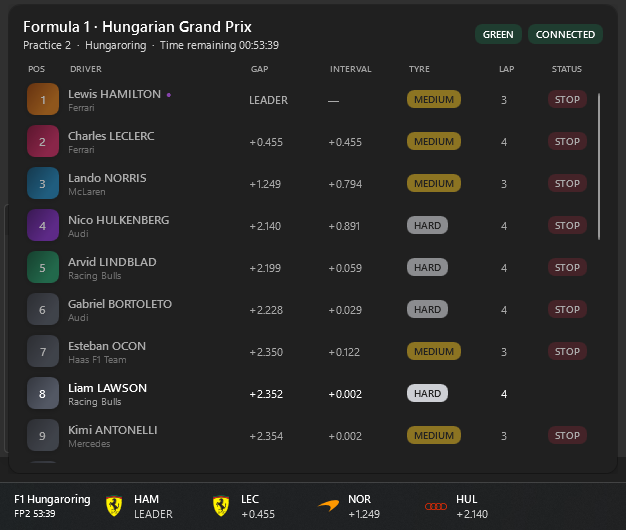
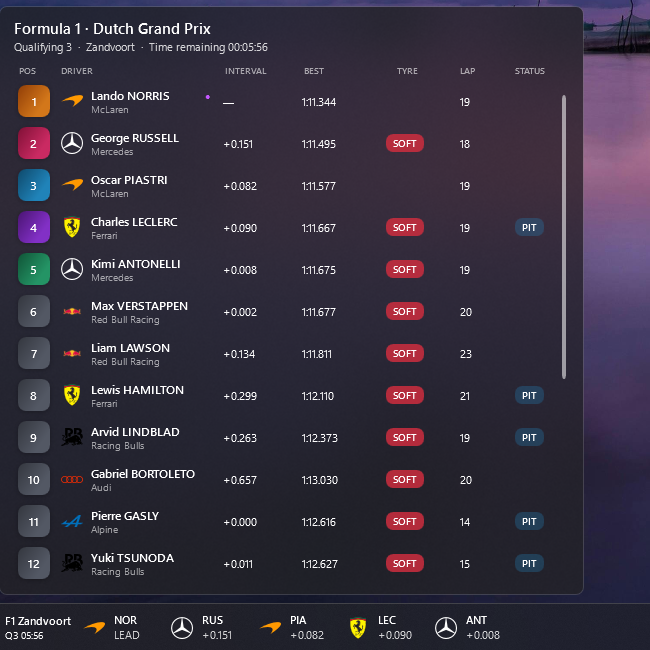
docs: rewrite README and add project guides
- Add CONTRIBUTING.md with build, PR, stream, logo, and roster steps
- Add PRIVACY.md covering local data, feeds, and sharing
- Add AGENTS.md with project workflow and route rules
- Condense README into overview, install, limitations, and links
- Replace the taskbar screenshot

diff --git a/README.md b/README.md
@@ -1,166 +1,94 @@
+<div align="center">
+
+<img src="RaceDock/Assets/AppIcon/racedock-256.png" alt="RaceDock" width="128" />
+
 # RaceDock
 
 **Live motorsport timing, right on your Windows taskbar.**
 
-RaceDock is a desktop app that shows live race information without taking over your screen.
-Follow the leaders from the taskbar, open the full classification when you need more detail, and receive clear flag and session alerts while you use other apps.
+[![CI](https://github.com/Foxtrot47/RaceDock/actions/workflows/ci.yml/badge.svg?branch=main)](https://github.com/Foxtrot47/RaceDock/actions/workflows/ci.yml)
+[![Latest release](https://img.shields.io/github/v/release/Foxtrot47/RaceDock?logo=github)](https://github.com/Foxtrot47/RaceDock/releases/latest)
+[![Downloads](https://img.shields.io/github/downloads/Foxtrot47/RaceDock/total?logo=github)](https://github.com/Foxtrot47/RaceDock/releases)
+[![License](https://img.shields.io/github/license/Foxtrot47/RaceDock)](LICENSE)
+[![Issues](https://img.shields.io/github/issues/Foxtrot47/RaceDock?logo=github)](https://github.com/Foxtrot47/RaceDock/issues)
 
-[Download the latest release](https://github.com/Foxtrot47/RaceDock/releases/latest) · [View all releases](https://github.com/Foxtrot47/RaceDock/releases)
+[Download](https://github.com/Foxtrot47/RaceDock/releases/latest) ·
+[Contribute](CONTRIBUTING.md) ·
+[Changelog](CHANGELOG.md) ·
+[Privacy](PRIVACY.md)
+
+</div>
 
 ![RaceDock showing Formula 1 timing in the Windows taskbar with the full classification open](assets/screenshot.png)
 
-## What RaceDock does
+RaceDock puts live race timing in your Windows taskbar, so you can follow a session while you work.
+The leaders stay visible in a small strip on the taskbar. Click it and the full classification opens without pulling focus away from whatever you are using. When no session you follow is running, RaceDock shows nothing at all.
 
-- Shows up to five leading drivers directly in the Windows taskbar.
-- Opens a full-field classification without taking focus from your current app.
-- Displays event, session, lap, stage, gap, tyre, class, pit, status, and flag information when the live feed provides it.
-- Supports Formula 1, Formula 2, Formula 3, Formula E, DTM, the NTT INDYCAR SERIES, MotoGP, Moto2, Moto3, GT World Challenge Europe, the IMSA WeatherTech SportsCar Championship, and the World Rally Championship.
-- Connects to several enabled championships at once and rotates between active sessions.
-- Uses position cards or team and manufacturer logos.
-- Includes deterministic scenarios and archive replay, so contributors can check the interface without waiting for a live event.
+## Features
 
-RaceDock stays hidden until an enabled stream provides live timing data.
+- Up to five leading drivers in the taskbar, with the full field one click away.
+- Lap, stage, gap, tyre, class, pit, status, and flag details when the series publishes them.
+- 12 championships: F1, F2, F3, Formula E, DTM, INDYCAR, MotoGP, Moto2, Moto3, GT World Challenge Europe, IMSA WeatherTech, and WRC.
+- Follow several series at once — RaceDock rotates between the ones currently live.
+- Position cards or team and manufacturer logos, in a light or dark look that follows Windows.
+- Replay recorded sessions, so you can try the app without waiting for a race.
 
-## Download and run
+## Install
 
-RaceDock targets Windows 10 version 1809 (build 17763) or newer, including Windows 11. Windows 10 support is best-effort until it is covered by CI; use a Windows edition and build still supported by Microsoft.
+RaceDock needs Windows 10 version 1809 or newer, including Windows 11, on a 64-bit PC.
 
 1. Open the [latest release](https://github.com/Foxtrot47/RaceDock/releases/latest).
-2. Download `RaceDock-vX.Y.Z-win-x64.zip` and, if you want to verify it, the matching `.sha256` file.
-3. Extract the ZIP to a folder you can keep.
+2. Download `RaceDock-vX.Y.Z-win-x64.zip`.
+3. Extract it to a folder you plan to keep.
 4. Run `RaceDock.exe`.
 
-## Using the app
 
-RaceDock runs from the Windows notification area. Open **Settings** from the tray menu, or double-click the tray icon, to:
+> A Microsoft Store listing is in certification. Until it is published, the GitHub release above is the official download.
 
-- enable or disable live championships;
-- choose how quickly active sessions rotate;
-- show between one and five drivers;
-- show or hide event, session, gap, position-colour, logo, and flag information;
-- choose whether RaceDock starts automatically when you sign in to Windows.
+## Using it
 
-Settings are saved in `%LocalAppData%\RaceDock\settings.json`. Windows startup is enabled by default and can be disabled from the **General** settings tab. Keep the extracted app in a stable folder because the startup entry points to that copy of `RaceDock.exe`.
+RaceDock sits in the notification area. Double-click its icon, or pick **Settings** from its menu.
 
-Application logs are stored in `%LocalAppData%\RaceDock\Logs`. The Formula 1 diagnostic recorder is optional, limited to 2 MiB, and excludes connection credentials.
+- **Home** — turn championships on or off.
+- **Championship**: choose what each series shows: how many drivers, gaps, logos, flags, and more.
+- **General**: rotation speed, widget position, animations, and starting with Windows.
+- **Testing**: replay a recorded session or run a demo without a live race.
+- **About**: the version you are running.
 
-### Replay recorded timing
+Settings and logs are stored in `%LocalAppData%\RaceDock`. Deleting that folder resets the app.
 
-Open **Settings → Testing → Choose archive…** to replay a Timing71 ZIP export or a HAR containing Timing71 manifest and state messages. Replay uses the normal taskbar widget and classification flyout. The Testing tab provides pause, resume, restart, single-step, and 0.25×–20× speed controls. Long recording gaps over 30 seconds are compressed to one second so sparse archives do not appear frozen.
+## Where the timing comes from
 
-Archive replay is temporary and does not change the selected live streams. Choose **Return to live** to reconnect them. HAR files from arbitrary provider protocols are not converted automatically; the HAR must contain Timing71-compatible manifest and state payloads.
+| Championship | Source |
+| --- | --- |
+| Formula 1 | Official Formula 1 live-timing stream |
+| Formula 2 & Formula 3 | Official FIA timing hubs |
+| Formula E | Official Al Kamel Formula E timing stream |
+| DTM | Public Griiip Insights timing feed |
+| NTT INDYCAR SERIES | Public INDYCAR race-control timing feed |
+| MotoGP, Moto2, Moto3 | Official MotoGP live-timing gateway |
+| GT World Challenge Europe | Public Swiss Timing SRO cache |
+| IMSA WeatherTech | Al Kamel live-timing stream |
+| World Rally Championship | Public WRC Promoter API |
 
-## Live timing sources
+RaceDock connects to these services directly from your PC. It is an independent project and is not affiliated with, endorsed by, or sponsored by any championship, promoter, or timing provider.
 
-- **Formula 1:** the official Formula 1 SignalR Core live-timing stream.
-- **Formula 2 and Formula 3:** the official FIA timing hubs for practice, qualifying, and races.
-- **Formula E:** the official Al Kamel Formula E timing stream for practice, qualifying, and races.
-- **DTM:** the public Griiip Insights timing feed for practice, qualifying, and races.
-- **NTT INDYCAR SERIES:** the public INDYCAR race-control timing feed for practice, qualifying, warmup, and races.
-- **MotoGP, Moto2, and Moto3:** separate opt-in streams from the official MotoGP live-timing gateway.
-- **GT World Challenge Europe:** the public Swiss Timing SRO cache for practice, qualifying, and races.
-- **IMSA WeatherTech SportsCar Championship:** the Al Kamel live-timing stream for practice, qualifying, and races.
-- **World Rally Championship:** the public WRC Promoter API for entries, stages, and live stage times.
+- The app is English-only for now; there are no translations yet.
+- It attaches to your main taskbar, not taskbars on secondary monitors.
+- Timing feeds are run by others: they can change, slow down, or drop out mid-session, and some series simply do not publish tyres, sectors, or pit data.
+- It covers live sessions only, no standings tables, schedules, results archives, or video.
+- The Mica background option is experimental and off by default.
 
-Live data remains subject to the availability and behaviour of each external service.
+## Help and bugs
 
-## Build from source
+Found a problem or want a series added? [Open an issue](https://github.com/Foxtrot47/RaceDock/issues).
 
-You need Windows 10 version 1809 or newer and the .NET 10 SDK.
-
-```powershell
-dotnet build RaceDock.slnx -c Release
-dotnet run --project RaceDock.Tests -c Release
-dotnet publish RaceDock/RaceDock.csproj -c Release -p:PublishProfile=FolderProfile
-pwsh ./scripts/Build-Msix.ps1 -Configuration Release
-```
-
-The publish profile creates a self-contained, compressed single-file build for unpackaged use. `Build-Msix.ps1` creates an unsigned MSIX with the reserved Microsoft Store identity and packaged startup task; the MSIX path intentionally disables single-file publishing because package files are read-only. Keep trimming disabled: trimming is not currently safe for the WPF and Windows Forms code paths used by the app.
+Helpful details: your RaceDock version, your Windows version, which series and session, and anything relevant from `%LocalAppData%\RaceDock\Logs`.
 
 ## Contributing
 
-Bug reports, documentation improvements, new timing streams, feed fixes, and logo additions are welcome.
-
-Before opening a pull request:
-
-1. Keep the change focused and explain which event, series, or feed state it covers.
-2. Do not commit API keys, authentication tokens, captured personal data, or other secrets.
-3. Add or update regression tests when timing behaviour changes.
-4. Run the release test suite:
-
-   ```powershell
-   dotnet run --project RaceDock.Tests -c Release
-   ```
-
-5. Build the application and use the **Testing** tab or a live session to check the visible result.
-
-### Add a new event stream
-
-Every live timing adapter implements `ILiveTimingSource`, defined in `RaceDock.Core/Domain.cs`. The interface publishes normalized `TimingSnapshot` values, connection changes, timing deltas, and feed failures so the rest of the app does not need to understand the provider's original data format.
-
-To add another championship or event stream:
-
-1. Create an adapter in `RaceDock.Core` that implements `ILiveTimingSource`.
-2. Convert the provider's data into `TimingSnapshot` and `CompetitorStanding` records. Report connection and parsing failures through the interface events rather than hiding them.
-3. If the stream represents a new championship, add it to the `Championship` enum in `Domain.cs` and add its short and full labels in `ChampionshipDisplay.cs`.
-4. Add an enable setting in `UserSettings.cs`, expose it as a checkbox in `RaceDock/SettingsWindow.cs`, and include it in the feed-restart checks.
-5. Register the adapter factory in `RaceDock/AppController.cs`. `CompositeLiveTimingSource` will start enabled adapters together and rotate between streams that are currently live.
-6. Add focused tests in `RaceDock.Tests/Program.cs`. Cover normal timing, incomplete or unexpected feed data, connection changes, session endings, and any series-specific rules your adapter introduces.
-7. Update the supported-stream list in this README.
-
-Use public or properly authorized data sources, follow the provider's terms, and avoid embedding credentials in the application.
-
-### Add or update a logo
-
-Logo files and their feed-name mappings live in `RaceDock/Assets/ManufacturerLogos`.
-
-1. Add a `.svg`, `.png`, or `.webp` asset to that folder. The project file includes those formats as application resources automatically.
-2. Add one entry to `manifest.json` with the asset filename and every team or manufacturer name that a feed may return:
-
-   ```json
-   {
-     "asset": "example.svg",
-     "color": "#ffffff",
-     "aliases": ["Example Racing", "Example Motorsport"]
-   }
-   ```
-
-3. Use `"preserveColors": true` when the original colours must remain unchanged. Otherwise, the renderer tints supported artwork using the entry's `color` value.
-4. Start the app, enable **Manufacturer logos**, and confirm the mark remains recognizable in both the taskbar strip and the full classification.
-
-Logos appear inside a 26 x 26 DIP square with a 2 DIP internal margin and uniform scaling. In the full classification, the logo appears beside the driver name while the position remains visible. Providers can supply a separate manufacturer name for logo resolution while preserving the team name shown to the user. For a clear result at this size:
-
-- prefer a compact emblem, shield, or monogram over a wide wordmark;
-- tightly crop transparent bitmap files, ideally on a 256 x 256 canvas;
-- use SVG files with a square view box and tightly bounded geometry; and
-- add alternate feed names as aliases instead of duplicating an asset.
-
-The built-in SVG reader supports fills, nested transforms, paths, polygons, and polylines.
-
-### Update Formula 2 and Formula 3 team rosters
-
-The FIA Formula 2 and Formula 3 feeds identify drivers but do not include their teams. Season-specific racing-number-to-team mappings are therefore stored in `RaceDock.Core/F2LiveTimingSource.cs`.
-
-At the start of a season:
-
-1. update the F2 and F3 roster dictionaries and season identifiers;
-2. confirm every team name matches an alias in `RaceDock/Assets/ManufacturerLogos/manifest.json`; and
-3. update the roster regression tests in `RaceDock.Tests/Program.cs`.
-
-Unknown seasons intentionally use numbered position cards instead of showing a potentially incorrect team logo. The current mappings are based on the official [2026 Formula 2 driver list](https://www.fiaformula2.com/en/drivers) and [2026 Formula 3 driver list](https://www.fiaformula3.com/en/drivers).
-
-## Releases and versioning
-
-`Version.props` is the source of truth for the application version. The app, libraries, tests, executable, workflow artifacts, Git tag, and GitHub Release all use that version.
-
-To inspect it locally:
-
-```powershell
-dotnet msbuild RaceDock/RaceDock.csproj -getProperty:Version
-```
-
-Maintainers publish a release by updating `VersionPrefix`, merging the change into `main`, and running the **Release Windows application** workflow. Released tags are immutable; publish a new version instead of replacing an existing release.
+New timing sources, feed fixes, logos, and documentation improvements are all welcome. See [CONTRIBUTING.md](CONTRIBUTING.md) for how to build the project and add a championship or logo.
 
 ## License
 
-See [LICENSE](LICENSE) for the repository's licence terms.
+RaceDock is released under the **GNU General Public License v3.0**. See [LICENSE](LICENSE).

diff --git a/CONTRIBUTING.md b/CONTRIBUTING.md
@@ -1,0 +1,102 @@
+# Contributing to RaceDock
+
+Bug reports, documentation improvements, new timing streams, feed fixes, and logo additions are all welcome
+
+## Getting set up
+
+You need Windows 10 version 1809 or newer and the .NET 10 SDK.
+
+```powershell
+dotnet build RaceDock.slnx -c Release
+dotnet run --project RaceDock.Tests -c Release
+```
+
+To see the interface without waiting for a live session, run the app and use **Settings → Testing**, which offers deterministic scenarios and archive replay.
+
+## Before opening a pull request
+
+1. Keep the change focused and explain which event, series, or feed state it covers.
+2. Never commit API keys, authentication tokens, captured personal data, or other secrets.
+3. Add or update regression tests when timing behaviour changes.
+4. Run the release test suite:
+
+   ```powershell
+   dotnet run --project RaceDock.Tests -c Release
+   ```
+
+5. Build the app and confirm the visible result using the **Testing** tab or a live session.
+
+CI runs the same build and test commands on `main` and on every pull request.
+
+## Project layout
+
+| Path | Purpose |
+| --- | --- |
+| `RaceDock.Core` | Timing sources, normalization, domain model, settings, logging |
+| `RaceDock` | WPF application, taskbar widget, classification flyout, settings UI |
+| `RaceDock.Tests` | Regression suite (plain console runner) |
+| `RaceDock.Package` | MSIX manifest and App Installer templates |
+| `scripts` | Packaging and release helper scripts |
+
+## Add a new event stream
+
+Every live timing adapter implements `ILiveTimingSource`, defined in `RaceDock.Core/Domain.cs`. The interface publishes normalized `TimingSnapshot` values, connection changes, timing deltas, and feed failures, so the rest of the app never needs to understand a provider's original data format.
+
+To add another championship or event stream:
+
+1. Create an adapter in `RaceDock.Core` that implements `ILiveTimingSource`.
+2. Convert the provider's data into `TimingSnapshot` and `CompetitorStanding` records. Report connection and parsing failures through the interface events rather than hiding them.
+3. If the stream is a new championship, add it to the `Championship` enum in `Domain.cs` and add its short and full labels in `ChampionshipDisplay.cs`.
+4. Add an enable setting in `UserSettings.cs`, expose it as a checkbox in `RaceDock/SettingsWindow.cs`, and include it in the feed-restart checks.
+5. Register the adapter factory in `RaceDock/AppController.cs`. `CompositeLiveTimingSource` starts enabled adapters together and rotates between streams that are currently live.
+6. Add focused tests in `RaceDock.Tests/Program.cs`. Cover normal timing, incomplete or unexpected feed data, connection changes, session endings, and any series-specific rules your adapter introduces.
+7. Update the supported-stream table in the README.
+
+Use public or properly authorized data sources, follow the provider's terms, and never embed credentials in the application.
+
+## Add or update a logo
+
+Logo files and their feed-name mappings live in `RaceDock/Assets/ManufacturerLogos`.
+
+1. Add a `.svg`, `.png`, or `.webp` asset to that folder. The project file includes those formats as application resources automatically.
+2. Add one entry to `manifest.json` with the asset filename and every team or manufacturer name a feed may return:
+
+   ```json
+   {
+     "asset": "example.svg",
+     "color": "#ffffff",
+     "aliases": ["Example Racing", "Example Motorsport"]
+   }
+   ```
+
+3. Use `"preserveColors": true` when the original colours must remain unchanged. Otherwise the renderer tints supported artwork using the entry's `color` value.
+4. Start the app, enable **Manufacturer logos**, and confirm the mark stays recognizable in both the taskbar strip and the full classification.
+
+Logos render inside a 26 × 26 DIP square with a 2 DIP internal margin and uniform scaling. In the full classification the logo sits beside the driver name while the position remains visible. Providers can supply a separate manufacturer name for logo resolution while preserving the team name shown to the user. For a clear result at this size:
+
+- prefer a compact emblem, shield, or monogram over a wide wordmark;
+- tightly crop transparent bitmaps, ideally on a 256 × 256 canvas;
+- use SVG files with a square view box and tightly bounded geometry; and
+- add alternate feed names as aliases instead of duplicating an asset.
+
+The built-in SVG reader supports fills, nested transforms, paths, polygons, and polylines.
+
+## Update Formula 2 and Formula 3 team rosters
+
+The FIA Formula 2 and Formula 3 feeds identify drivers but not their teams, so season-specific racing-number-to-team mappings live in `RaceDock.Core/F2LiveTimingSource.cs`.
+
+At the start of a season:
+
+1. update the F2 and F3 roster dictionaries and season identifiers;
+2. confirm every team name matches an alias in `RaceDock/Assets/ManufacturerLogos/manifest.json`; and
+3. update the roster regression tests in `RaceDock.Tests/Program.cs`.
+
+Unknown seasons intentionally use numbered position cards instead of showing a potentially incorrect team logo. Current mappings are based on the official [2026 Formula 2 driver list](https://www.fiaformula2.com/en/drivers) and [2026 Formula 3 driver list](https://www.fiaformula3.com/en/drivers).
+
+## Translations
+
+RaceDock is currently English-only and has no localization infrastructure. Adding it is a larger change than translating strings, so please open an issue to discuss the approach before starting work.
+
+## Licensing of contributions
+
+RaceDock is licensed under the GNU General Public License v3.0. By contributing, you agree that your contribution is licensed under the same terms.

diff --git a/PRIVACY.md b/PRIVACY.md
@@ -1,0 +1,41 @@
+# RaceDock Privacy Policy
+
+Effective date: August 24, 2026
+
+RaceDock is a Windows desktop application that displays public motorsport timing information. This policy explains the data RaceDock accesses and stores.
+
+## Personal information
+
+RaceDock does not require an account and does not ask for or intentionally collect names, email addresses, contact information, precise location, payment information, advertising identifiers, or other personal information. RaceDock does not include advertising, analytics, or telemetry, and the RaceDock developer does not operate a server that receives application usage data.
+
+## Data stored on your device
+
+RaceDock stores application settings, technical logs, and crash-recovery information under `%LocalAppData%\RaceDock`. These files remain on your device unless you choose to share them. Technical logs can contain timestamps, enabled timing-source names, error details, and bounded excerpts of public timing-feed responses. They are used to operate and diagnose the application.
+
+RaceDock also provides an optional diagnostic feed recorder. It runs only when you enable it and writes public timing-feed data to a folder you select.
+
+You can remove RaceDock's locally stored data by deleting the `%LocalAppData%\RaceDock` folder. Uninstalling the application may not automatically remove this folder.
+
+## Network connections and third-party services
+
+When you enable a championship, RaceDock connects directly from your device to third-party motorsport timing services to retrieve public event and classification data. Like any network request, those services may receive your IP address and standard connection metadata. Their handling of that information is governed by their own privacy policies and terms. RaceDock does not send those requests through a server operated by the RaceDock developer.
+
+RaceDock can open GitHub release, support, and project pages in your default web browser. GitHub's privacy policy applies when you visit those pages.
+
+## Sharing and sale of information
+
+RaceDock does not sell personal information. RaceDock does not transmit locally stored settings, logs, or diagnostic recordings to the developer or to advertising or analytics providers. If you voluntarily attach logs or diagnostic files to a support request, the information you choose to provide will be used only to investigate that request.
+
+## Children's privacy
+
+RaceDock is not designed to collect personal information from children and does not knowingly do so.
+
+## Changes to this policy
+
+This policy may be updated when RaceDock's functionality or data practices change. Updates will be published at this location with a revised effective date.
+
+## Contact
+
+For privacy questions or support, open an issue at:
+
+https://github.com/Foxtrot47/RaceDock/issues
